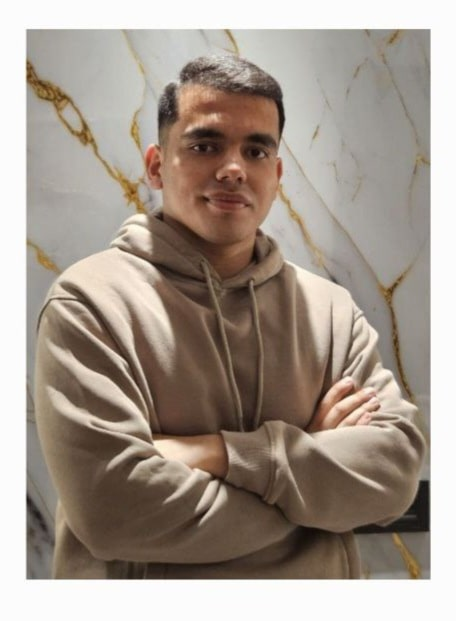
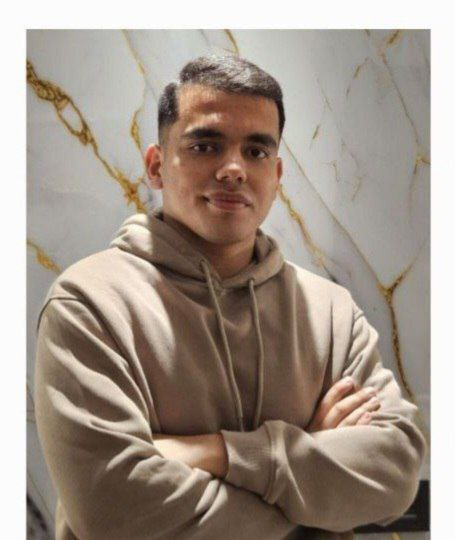
finished all amimation in about section

diff --git a/src/sections/About.tsx b/src/sections/About.tsx
@@ -19,7 +19,7 @@ import Sass from "@/assets/icons/sass.svg";
 import myCv from "@/assets/images/myCv.png";
 import { CardHeader } from "@/components/CardHeader";
 import { ToolboxItems } from "@/components/ToolboxItems";
-import { motion } from "framer-motion";
+import { motion, useInView } from "framer-motion";
 import { useRef } from "react";
 
 const toolboxItems1 = [
@@ -87,13 +87,13 @@ const hobbies = [
     title: "Reading",
     emoji: "📚",
     left: "7%",
-    top: "25%",
+    top: "28%",
   },
   {
     title: "Hiking",
     emoji: "🥾",
     left: "67%",
-    top: "48%",
+    top: "45%",
   },
   {
     title: "Swimming",
@@ -105,6 +105,8 @@ const hobbies = [
 
 export const AboutSection = () => {
   const hobbiesRef = useRef(null);
+  const photoRef = useRef(null);
+  const isInView = useInView(photoRef, { once: false });
   return (
     <section id="about" className="py-20 lg:py-28">
       <div className="container">
@@ -117,9 +119,15 @@ export const AboutSection = () => {
           <div className="grid grid-cols-1 md:grid-cols-5 lg:grid-cols-3 md:gap-8 gap-8">
             <Card className="h-[320px] md:col-span-2 lg:col-span-1">
               <CardHeader title="My Photo" description="Explore my photo" />
-              <div className="w-44 mx-auto mt-2 md:mt-0">
-                <Image src={myPhoto} alt="My Photo" />
-              </div>
+              <motion.div
+                ref={photoRef}
+                initial={{ y: 100, opacity: 0 }}
+                animate={isInView ? { y: 0, opacity: 1 } : {}}
+                transition={{ type: "spring", stiffness: 125, damping: 15 }}
+                className="w-44 mx-auto mt-2 md:mt-0"
+              >
+                <Image src={myPhoto} alt="My Photo." />
+              </motion.div>
             </Card>
 
             <Card className="h-[320px] flex flex-col md:col-span-3 lg:col-span-2">

diff --git a/src/sections/Projects.tsx b/src/sections/Projects.tsx
@@ -8,7 +8,7 @@ import CheckIcon from "@/assets/icons/check-circle.svg";
 import ArrowUpRight from "@/assets/icons/arrow-up-right.svg";
 import { SectionHeader } from "@/components/SectionHeader";
 import { Card } from "@/components/Card";
-import { motion } from "framer-motion";
+import { hover, motion } from "framer-motion";
 import Link from "next/link";
 
 const portfolioProjects = [
@@ -101,6 +101,7 @@ export const ProjectsSection = () => {
                   >
                     <motion.div
                       whileHover="hover"
+                      whileTap="hover"
                       className="bg-white text-gray-950 h-12 w-full rounded-xl font-semibold inline-flex items-center justify-center
                       gap-2 mt-8 md:w-auto px-6"
                     >

diff --git a/src/sections/Hero.tsx b/src/sections/Hero.tsx
@@ -73,6 +73,7 @@ export const HeroSection = () => {
           >
             <motion.div
               whileHover="hover"
+              whileTap="hover"
               className="w-full inline-flex justify-center items-center gap-2 bg-white text-gray-900 py-3 rounded-xl"
             >
               <motion.span
@@ -81,7 +82,7 @@ export const HeroSection = () => {
                 }}
                 transition={{
                   ease: "easeInOut",
-                  duration: 1.2,
+                  duration: 0.7,
                 }}
               >
                 👋🏽

diff --git a/src/sections/Quotes.tsx b/src/sections/Quotes.tsx
@@ -53,7 +53,7 @@ export const QuotesSection = () => {
         <div className="flex mt-16 lg:mt-24 overflow-x-clip [mask-image:linear-gradient(to_right,transparent,black_10%,black_90%,transparent)]">
           <div className="flex gap-8 flex-none">
             <InfiniteSlider
-              speedOnHover={60}
+              speedOnHover={70}
               speed={100}
               gap={32}
               className="flex flex-none"

diff --git a/src/components/ToolboxItems.tsx b/src/components/ToolboxItems.tsx
@@ -22,7 +22,7 @@ export const ToolboxItems = ({
       )}
     >
       <InfiniteSlider
-        speed={100}
+        speed={95}
         reverse={reverse}
         className="flex flex-none py-0.5"
         gap={16}
